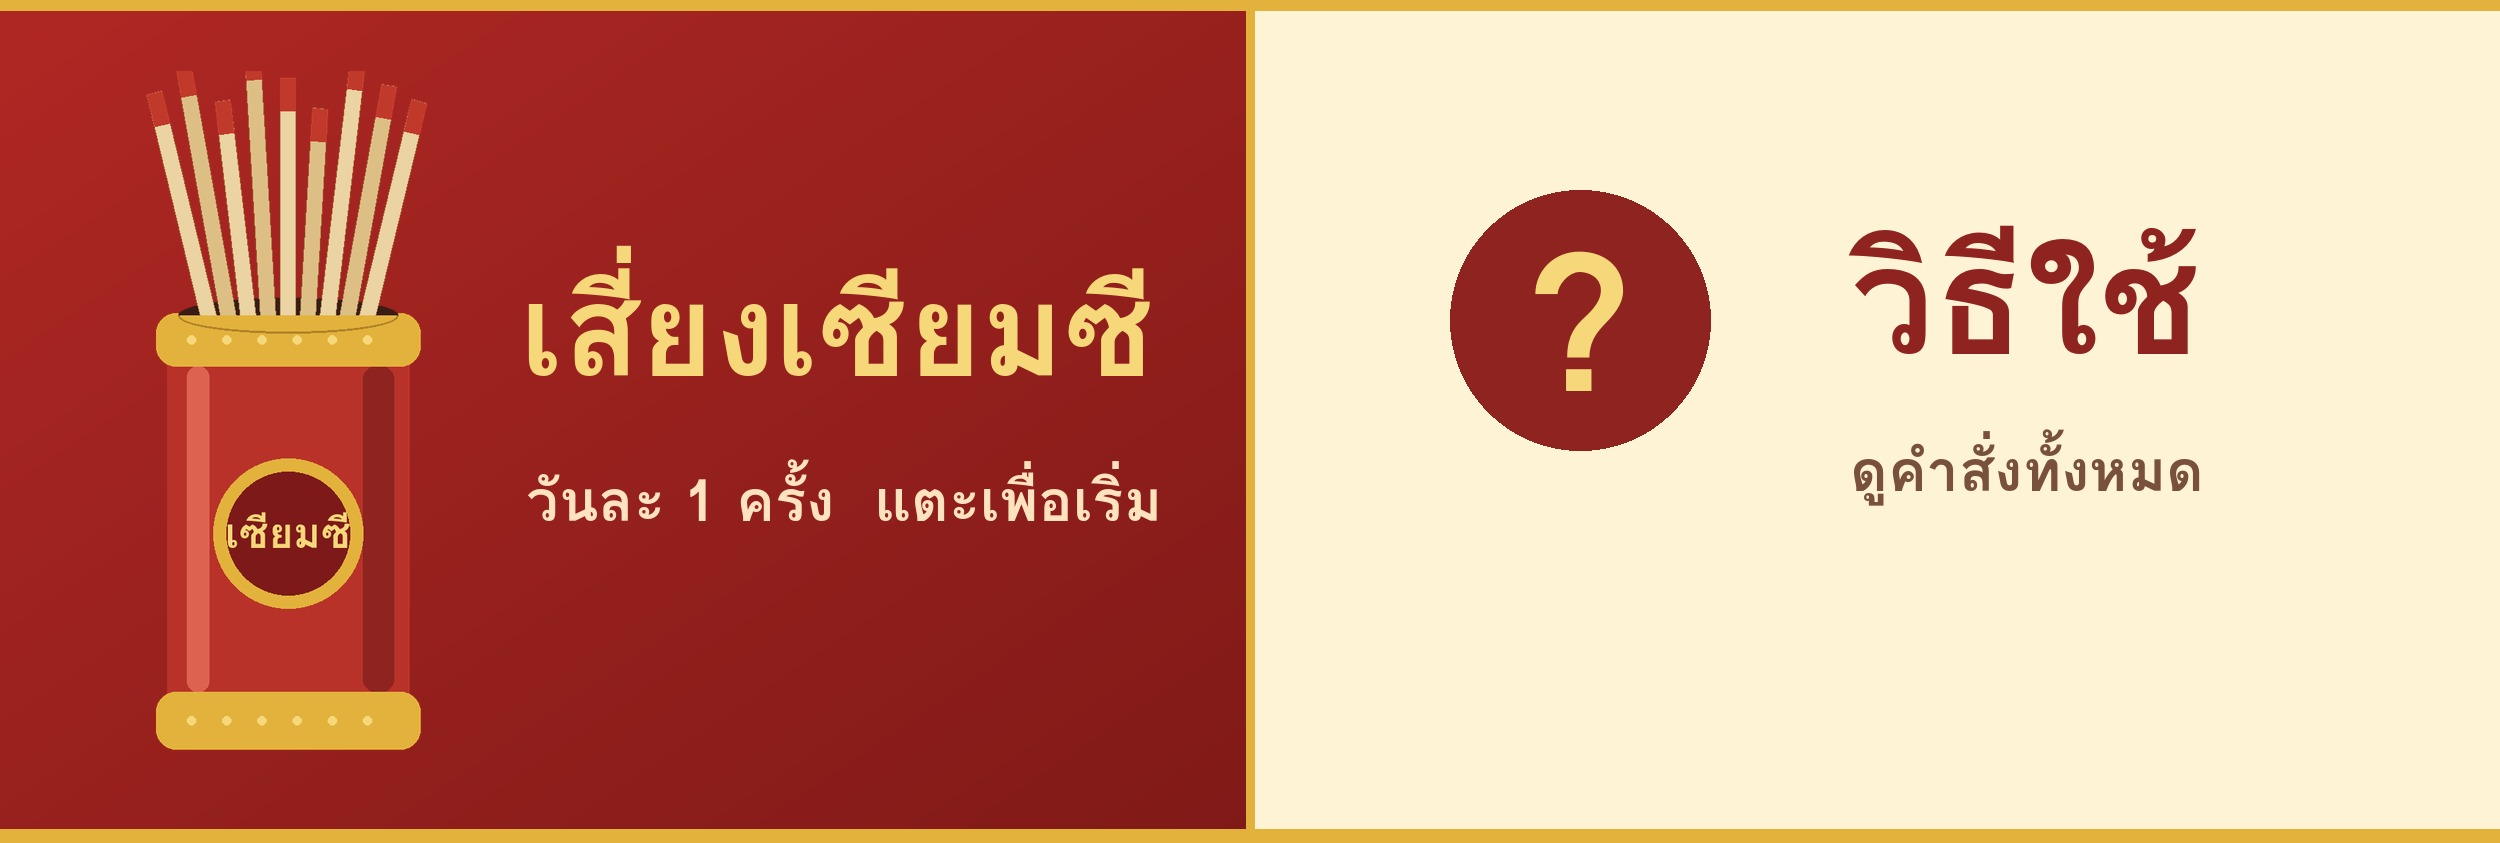
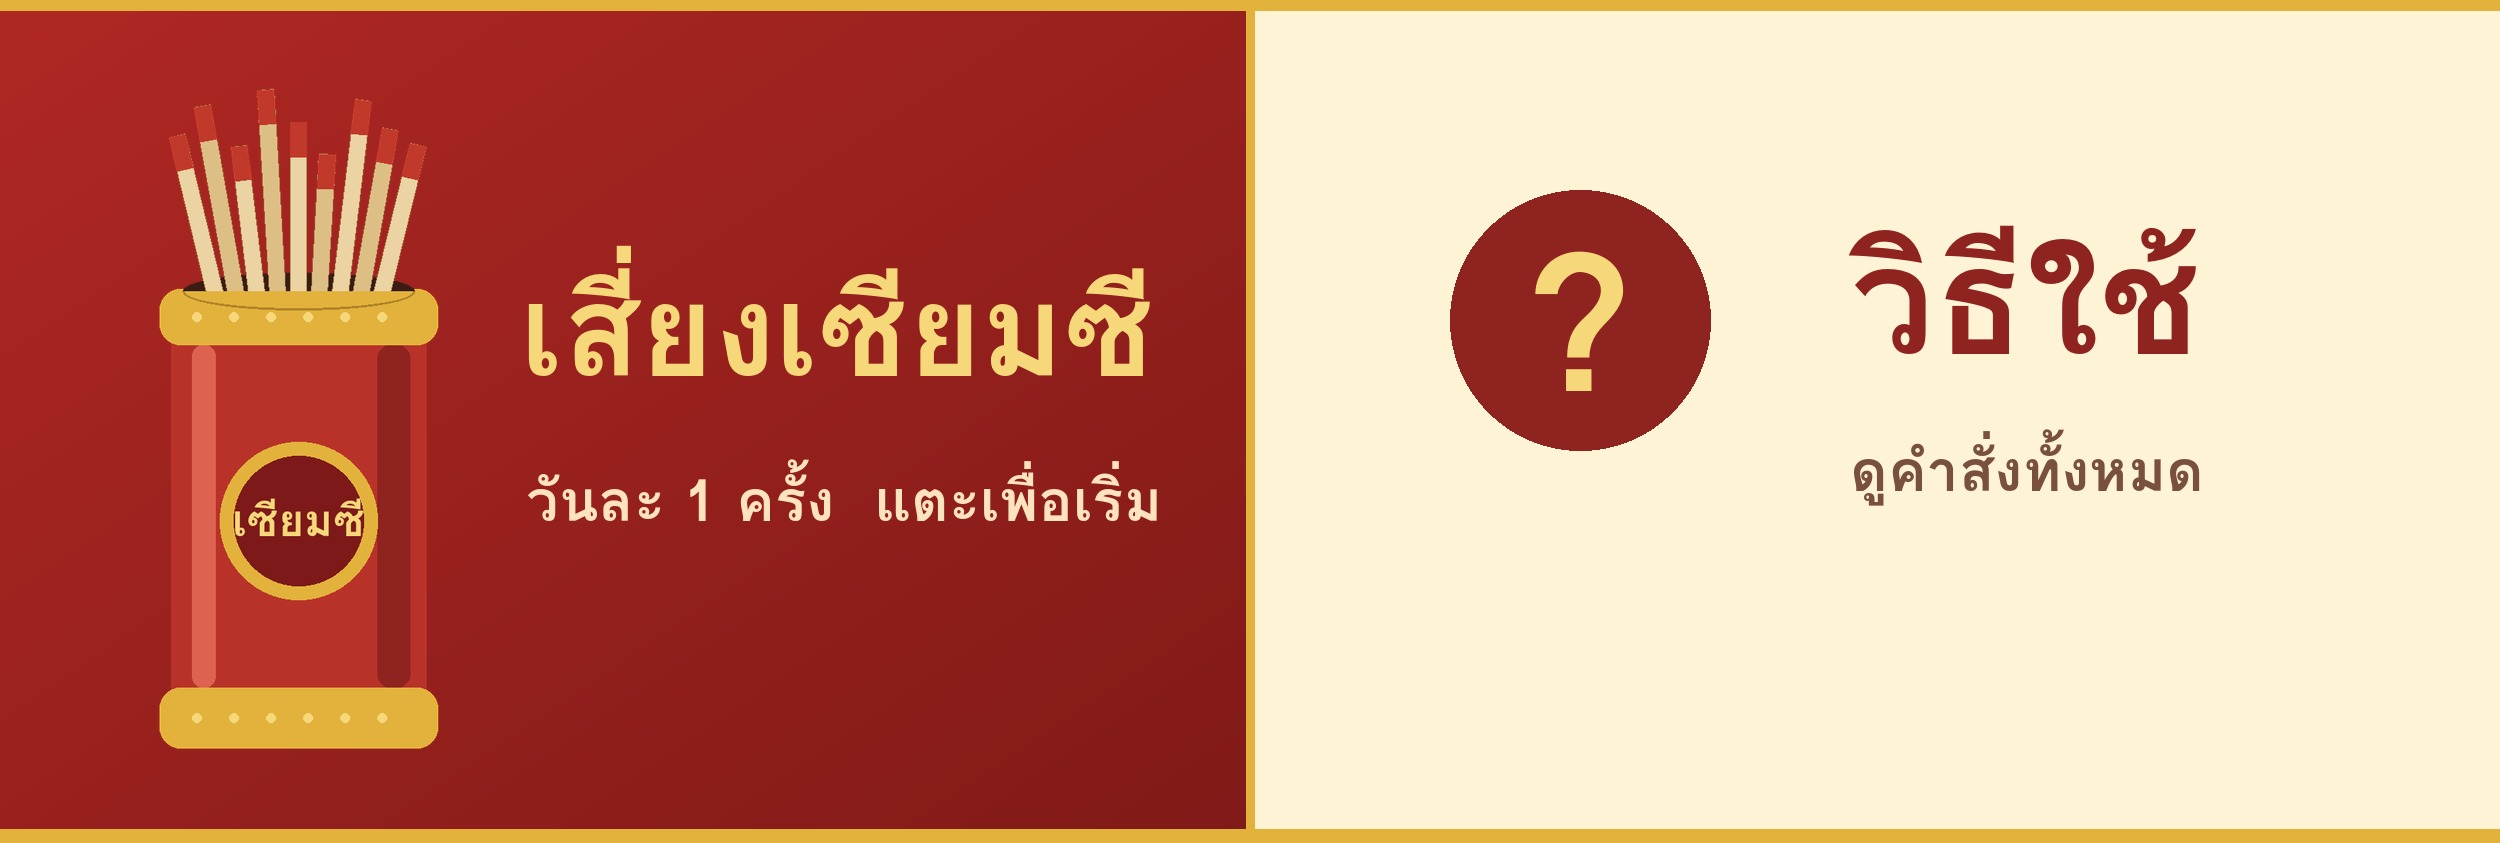
Shake animation stops after 2 plays

Changed region(s): [[0.0624, 0.0925, 0.1872, 0.8944]]

diff --git a/test.js b/test.js
@@ -46,6 +46,8 @@ const apngPath = path.join(__dirname, 'public', 'assets', 'shake.png');
 const apngBuf = fs.readFileSync(apngPath);
 assert.ok(apngBuf.includes('acTL'), 'ไฟล์ต้องเป็น APNG');
 assert.ok(apngBuf.length <= 300 * 1024, 'APNG ต้องไม่เกิน 300 KB');
+const plays = apngBuf.readUInt32BE(apngBuf.indexOf('acTL') + 8);
+assert.ok(plays >= 1 && plays <= 3, `APNG ต้องเล่นจำนวนครั้งจำกัด (ตอนนี้ ${plays}, 0 = วนไม่รู้จบ)`);
 assert.ok(!JSON.stringify(first).includes('สุ่ม'), 'ต้องไม่มีปุ่ม/ข้อความสุ่มใหม่');
 const again = handleText('เสี่ยงเซียมซี', 'U1', day1, lim);
 assert.ok(again.length === 1 && again[0].text.includes('จำกัดการเสี่ยงวันละ 1 ครั้ง'));

diff --git a/tools/make_assets.py b/tools/make_assets.py
@@ -48,7 +48,7 @@ def canister_layer(rattle=None):
 
     # ปากกระบอก (วงรีสีเข้ม) แล้วไม้เซียมซีโผล่ขึ้นมา
     d.ellipse(s(190, 121, 290, 137), fill=DARK)
-    lengths = [105, 117, 99, 123, 109, 95, 119, 107, 101]
+    lengths = [x - 35 for x in [105, 117, 99, 123, 109, 95, 119, 107, 101]]   # สั้นลงเพื่อให้ไม้ที่โผล่ไม่ชนขอบภาพ
     for i in range(9):
         xb = 204 + 9 * i
         a = math.radians((i - 4) * 3.4)
@@ -74,36 +74,42 @@ def sparkle(d, cx, cy, r, col):
         pts.append((cx + rr * math.cos(ang), cy + rr * math.sin(ang)))
     d.polygon(pts, fill=col)
 
-def make_frame(t):
-    ph = 2 * math.pi * 2 * t                    # เขย่า 2 รอบต่อ 1 ลูป
-    rattle = [9 * math.sin(ph * 1.0 + i * 0.9) for i in range(9)]
+N_FRAMES = 24          # 0-12 เขย่าเต็มแรง, 13-20 แผ่วลง, 21-23 นิ่งและไม้โผล่
+PLAYS = 2              # เล่น 2 รอบแล้วหยุดที่เฟรมสุดท้าย
+
+def make_frame(i, n=N_FRAMES):
+    ph = 2 * math.pi * i / 8                      # 8 เฟรมต่อการเขย่า 1 รอบ
+    env = 1.0 if i <= 12 else max(0.0, 1.0 - (i - 12) / 8.0)   # แรงเขย่าค่อยๆ ลดลง
+    pop = {19: 6, 20: 18, 21: 30, 22: 36, 23: 34}.get(i, 0)     # ไม้ใบที่ 4 โผล่ขึ้นมา
+    rattle = [9 * env * math.sin(ph + k * 0.9) for k in range(9)]
+    rattle[3] += pop
     layer = canister_layer(rattle)
-    ang = 13 * math.sin(ph)
-    dx, dy = 12 * math.sin(ph), -6 * abs(math.sin(ph))
+    ang = 13 * env * math.sin(ph)
+    dx, dy = 12 * env * math.sin(ph), -6 * env * abs(math.sin(ph))
     bg = Image.new('RGBA', (W * S, H * S), CREAM + (255,))
     d = ImageDraw.Draw(bg, 'RGBA')
-    # เงาใต้กระบอก
-    sh = 70 - 8 * abs(math.sin(ph))
+    sh = 70 - 8 * env * abs(math.sin(ph))
     d.ellipse([int((240 + dx * 0.5 - sh) * S), int(334 * S), int((240 + dx * 0.5 + sh) * S), int(352 * S)], fill=(214, 190, 140, 150))
-    # ประกายระยิบ
+    boost = 1.0 + (0.8 if i >= 20 else 0)          # ประกายเด่นขึ้นตอนได้ใบ
     for k, (cx, cy) in enumerate([(78, 84), (414, 104), (392, 262), (66, 246), (330, 52)]):
-        r = 5 + 6 * (0.5 + 0.5 * math.sin(ph + k * 1.7))
+        r = (5 + 6 * (0.5 + 0.5 * math.sin(ph + k * 1.7))) * boost
         sparkle(d, cx * S, cy * S, r * S, (242, 193, 78, 255))
-    # เส้นลมแสดงการเขย่า
-    v = abs(math.cos(ph))
-    col = (205, 160, 80, int(40 + 190 * v))
-    for side in (-1, 1):
-        for j in range(3):
-            x0 = 240 + side * (92 + j * 17)
-            d.line([(int(x0 * S), int((178 + j * 6) * S)), (int((x0 + side * 6) * S), int((222) * S)), (int(x0 * S), int((266 - j * 6) * S))], fill=col, width=4 * S, joint='curve')
+    v = abs(math.cos(ph)) * env
+    if v > 0.05:
+        col = (205, 160, 80, int(40 + 190 * v))
+        for side in (-1, 1):
+            for j in range(3):
+                x0 = 240 + side * (92 + j * 17)
+                d.line([(int(x0 * S), int((178 + j * 6) * S)), (int((x0 + side * 6) * S), int(222 * S)), (int(x0 * S), int((266 - j * 6) * S))], fill=col, width=4 * S, joint='curve')
     rot = layer.rotate(ang, center=(PIVOT[0] * S, PIVOT[1] * S), resample=Image.BICUBIC, translate=(int(dx * S), int(dy * S)))
     bg.alpha_composite(rot)
     return bg.resize((W, H), Image.LANCZOS).convert('RGB')
 
-def build_apng(path, n=16, delay=70):
-    frames = [make_frame(i / n) for i in range(n)]
-    pal = [f.quantize(colors=56, method=Image.MEDIANCUT, dither=Image.NONE) for f in frames]
-    pal[0].save(path, save_all=True, append_images=pal[1:], duration=delay, loop=0, format='PNG', optimize=True)
+def build_apng(path, n=N_FRAMES, delay=90, hold=1500):
+    frames = [make_frame(i, n) for i in range(n)]
+    pal = [f.quantize(colors=40, method=Image.MEDIANCUT, dither=Image.NONE) for f in frames]
+    durations = [delay] * (n - 1) + [hold]         # เฟรมสุดท้ายค้างไว้
+    pal[0].save(path, save_all=True, append_images=pal[1:], duration=durations, loop=PLAYS, format='PNG', optimize=True)
     return frames
 
 def build_richmenu(path):
@@ -118,7 +124,7 @@ def build_richmenu(path):
     d.rectangle([1250, 0, RW, RH], fill=CREAM)       # ด้านขวาครีม
     GOLD, LGOLD, DREDT = (227, 178, 60), (246, 215, 122), (143, 35, 32)
     # ไอคอนกระบอกเซียมซี (ซ้าย)
-    ic = canister_layer().crop((150 * S, 18 * S, 330 * S, 336 * S))
+    ic = canister_layer().crop((150 * S, 34 * S, 330 * S, 336 * S))
     th = 700
     ic = ic.resize((int(ic.width * th / ic.height), th), Image.LANCZOS)
     im.paste(ic, (90, (RH - th) // 2), ic)
@@ -147,6 +153,6 @@ if __name__ == '__main__':
     print('Rich menu', os.path.getsize(rm) // 1024, 'KB')
     # แผ่นตรวจดูเฟรม (ไม่ได้ใช้งานจริง)
     sheet = Image.new('RGB', (W * 4, H * 2))
-    for i, k in enumerate([0, 2, 4, 6, 8, 10, 12, 14]):
+    for i, k in enumerate([0, 3, 9, 14, 18, 20, 22, 23]):
         sheet.paste(frames[k], ((i % 4) * W, (i // 4) * H))
     sheet.save('/tmp/shake_sheet.png')
